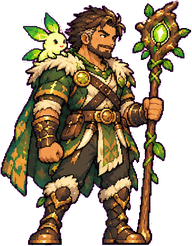
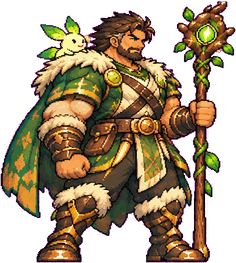
art: 황짐승 근육 체형·재희아빠 키 조정 · 타이틀(위 하늘 비움) · 영웅/상점/가방 배경 · docs/SCREENS_1017.md
Claude-Session: https://claude.ai/code/session_01BobDL1ZCo2XQw8SBskpwFb

diff --git a/docs/SCREENS_1017.md b/docs/SCREENS_1017.md
@@ -1,0 +1,14 @@
+# 화면 그림 추가 (10/17 · Code 질문 답)
+
+| 파일 | 쓰는 곳 |
+|---|---|
+| `public/art/screens/title.jpg` | **교체**: 17명은 아래 62%, 위 38%는 빈 하늘 → 로고를 위 가운데 하늘에. (예전 얼굴 겹치던 판은 art_raw/screen_title_17_faces.jpg) |
+| `public/art/screens/heroes.jpg` | 영웅 목록·영웅 정보·편성 배경 (원정대 숙소 홀) |
+| `public/art/screens/shop.jpg` | 상점 배경 (시장 거리) |
+| `public/art/screens/bag.jpg` | 가방 배경 (여관 다락 창고) |
+
+## 형철 결정 (Code 질문 4개)
+1. 타이틀: 위 하늘 비운 키 아트로 교체 (위 파일)
+2. 영웅·상점·가방 전용 배경: 위 3장 연결 (로비 흐린 그림 대신). 지금처럼 반투명 막·비네트는 유지
+3. 편성 빈칸: 미보유 영웅을 흐리게(회색·자물쇠) 채워서 빈 땅이 안 남게. 누르면 영웅 정보/상점으로
+4. 코스튬 값: 별가루 800 → **1,200** (주 상한 3,600 기준 주 2~3벌)

diff --git a/docs/SPRITES_1017.md b/docs/SPRITES_1017.md
@@ -26,3 +26,7 @@
 3. 발 기준선: 지금 sheet.ts 방식(줄마다 아래 끝) 유지 — r1c1(누운 자세)도 바닥에 붙게.
 4. 승리 화면에서 살아남은 영웅 전원 `win` 자세, 패배 시 `down` 유지, 맞을 때 `hurt`.
 5. 844×390에서 전투 캡처: 4명 파티(웅스·고느끼·클레이네·그롬처럼 체격 다른 조합)로 대기·공격·피격·승리·패배 한 장씩.
+
+## 15:10 형철 추가 수정
+- 황짐승: 그롬 수준 등빨(어깨·팔·가슴 근육)로 새로 뽑음, 키는 신야군 정도 (가장 크지는 않게)
+- 재희아빠: 황짐승·신야군과 같은 키로 줄임
